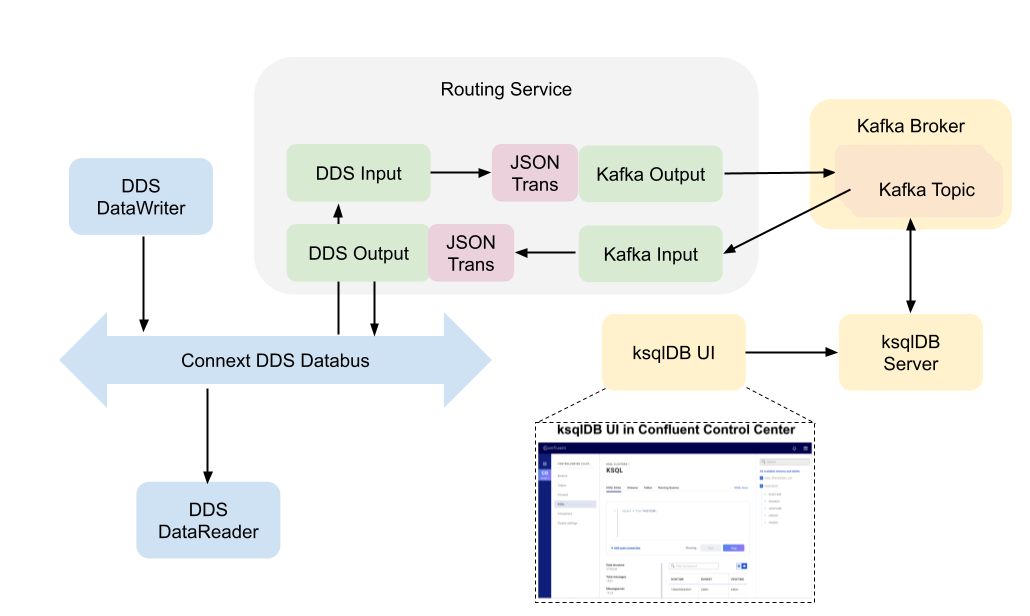
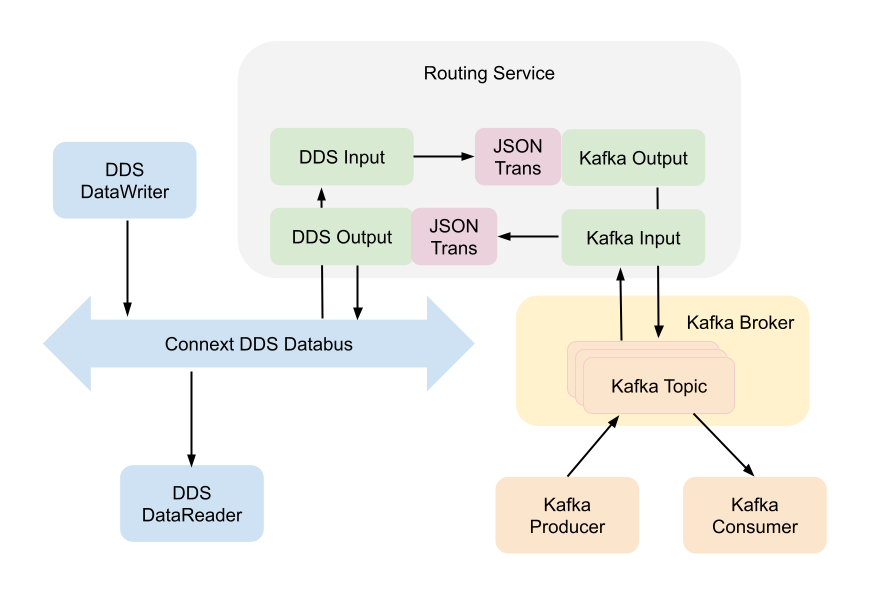
updated Kafka README

diff --git a/examples/kafka/kafka_shapes/README.md b/examples/kafka/kafka_shapes/README.md
@@ -36,20 +36,79 @@ The following figure presents the overall architecture of the example scenario. 
 - **Kafka Input** subscribes to Kafka data from a Kafka broker and passes the data to DDS Output. 
 - **Kafka Output** receives DDS data from DDS Input and converts the data from DDS to JSON data. Then, it will publish the data to a Kafka Broker. 
 - **Kafka Broker** exchanges Kafka data between producers (e.g., Kafka Output) and consumers (e.g., Kafka Input). 
-- **ksqlDB engine** executes SQL statements and queries. Users can define stream processing logic by writing SQL statements, and ksqlDB builds and runs the application. Under the hood, ksqlDB parses SQL statements and builds corresponding Kafka Streams topologies.
-- **ksqlDB UI** allows users to write SQL statements with a web-based graphical user interface. 
 
 ## Run Kafka infrastructure components
 To run this example, the following Kafka components are required to run. 
 - ZooKeeper
 - Kafka Broker
-- Confluent Control Center
-- ksqlDB Server
-
-You can use the Docker Compose file provided by Confluent to run them. Please see [this link](https://github.com/confluentinc/cp-all-in-one/tree/6.2.0-post/cp-all-in-one).  
+- Confluent Control Center (only with Docker Compose option)
 
 ## Running RTI Routing Service with the Kafka adapter plugin
-1. Run Kafka infrastructure components:
+We would like to provide instructions with two options to set up Kafka infrastructure components: 1) Script option 2) Docker Compose option 
+
+### Option 1: Running with scripts
+1. Get Kafka.
+   [Download](https://kafka.apache.org/quickstart) the latest Kafka release and extract it:
+    ```sh
+    $ tar -xzf kafka_2.13-2.8.0.tgz
+    $ cd kafka_2.13-2.8.0
+
+    ```
+
+2. Run Kafka infrastructure components:
+   Run the following commands in order to start all services in the correct order:
+    ```sh
+    # Start the ZooKeeper service
+    # Note: Soon, ZooKeeper will no longer be required by Apache Kafka.
+    $ bin/zookeeper-server-start.sh config/zookeeper.properties
+    ```
+
+   Open another terminal session and run:
+    ```sh
+    # Start the Kafka broker service
+    $ bin/kafka-server-start.sh config/server.properties
+    ```
+    Once all services have successfully launched, you will have a basic Kafka environment running and ready to use.
+
+3. Create a `Square` topic
+   ```sh
+   $ bin/kafka-topics.sh --create --topic Square --bootstrap-server localhost:9092
+   ```
+
+4. Start an *RTI Shapes Demo* instance:
+
+    ```sh
+    $NDDSHOME/bin/rtishapesdemo
+    ```
+
+5. Publish a `Square` topic.
+
+    You can create a shapes publisher by clicking in the following
+    menu items in the *RTI Shapes Demo* application:
+
+    - "Publish/Square..." and click 'OK' to use the default parameters.
+
+6. In a separate terminal, start an *RTI Routing Service* instance with the example XML configuration:
+
+    ```sh
+    $NDDSHOME/bin/rtiroutingservice -cfgFile  kafka_adapter_simple.xml -cfgName dds_kafka_bridge
+    ```
+
+7. In a separate terminal, run the console consumer client to see the `Square` topic data from the RTI Gateway.
+    ```sh
+    $ bin/kafka-console-consumer.sh --topic Square --from-beginning --bootstrap-server localhost:9092
+    { "color":"BLUE", "x":120, "y":180, "shapesize":30 } 
+    { "color":"BLUE", "x":120, "y":178, "shapesize":30 } 
+    { "color":"BLUE", "x":120, "y":176, "shapesize":30 } 
+
+    ```
+
+### Option 2: Running with Docker Compose
+
+1. Get the Docker Compose file. 
+   You can get the Docker Compose file provided by Confluent at [this link](https://github.com/confluentinc/cp-all-in-one/tree/6.2.0-post/cp-all-in-one).  
+
+2. Run Kafka infrastructure components:
     Please install [Docker Engine](https://docs.docker.com/engine/install) and [Docker Compose](https://docs.docker.com/compose/install) to run the containers for Kafka. 
 
     Download the Docker Compose file provided by Confluent.
@@ -63,26 +122,26 @@ You can use the Docker Compose file provided by Confluent to run them. Please se
     $ cd cp-all-in-one/cp-all-in-one
     $ docker-compose up -d
     ```
-2. After the Kafka services are running, you can acess the Web-based management UI called `Confluent Control Center` at `localhost:9021`.
+3. After the Kafka services are running, you can acess the Web-based management UI called `Confluent Control Center` at `localhost:9021`.
 
-3. Start an *RTI Shapes Demo* instance:
+4. Start an *RTI Shapes Demo* instance:
 
     ```sh
     $NDDSHOME/bin/rtishapesdemo
     ```
 
-4. Publish a `Square` topic.
+5. Publish a `Square` topic.
 
     You can create a shapes publisher by clicking in the following
     menu items in the *RTI Shapes Demo* application:
 
     - "Publish/Square..." and click 'OK' to use the default parameters.
 
-5. In a separate terminal, start an *RTI Routing Service* instance with the example XML configuration:
+6. In a separate terminal, start an *RTI Routing Service* instance with the example XML configuration:
 
     ```sh
     $NDDSHOME/bin/rtiroutingservice -cfgFile  kafka_adapter_simple.xml -cfgName dds_kafka_bridge
     ```
 
-6. In Confluent Control Center(localhost:9021), you can see the `Square` topic under the `Topics` tab. After clicking the `Square` topic, You can see the `Square` topic data coming from the RTI Gateway.
+7. In Confluent Control Center(localhost:9021), you can see the `Square` topic under the `Topics` tab. After clicking the `Square` topic, You can see the `Square` topic data coming from the RTI Gateway.
 
